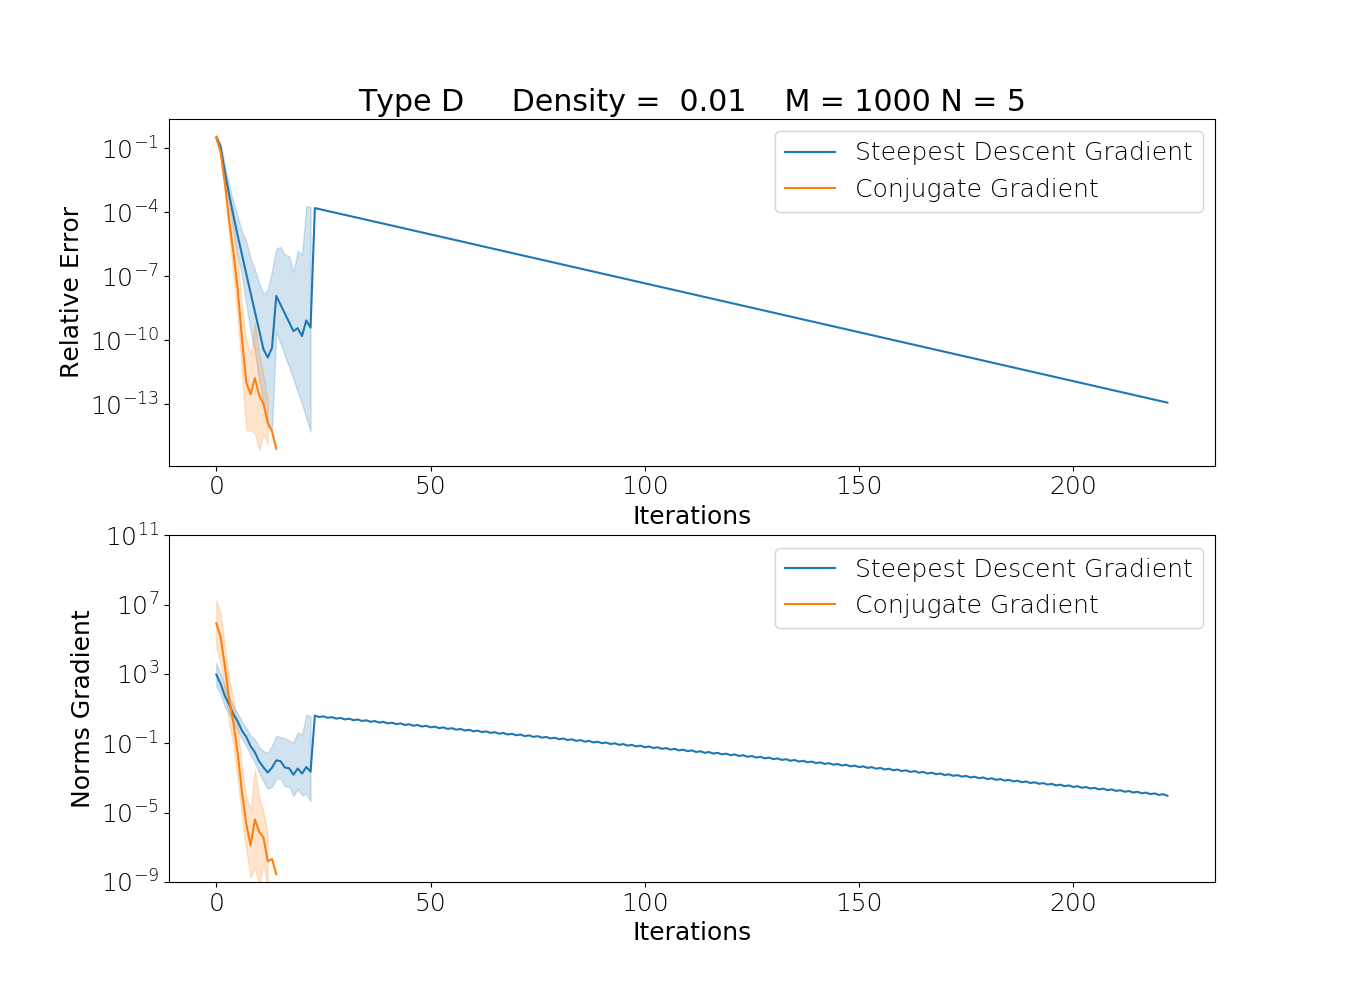
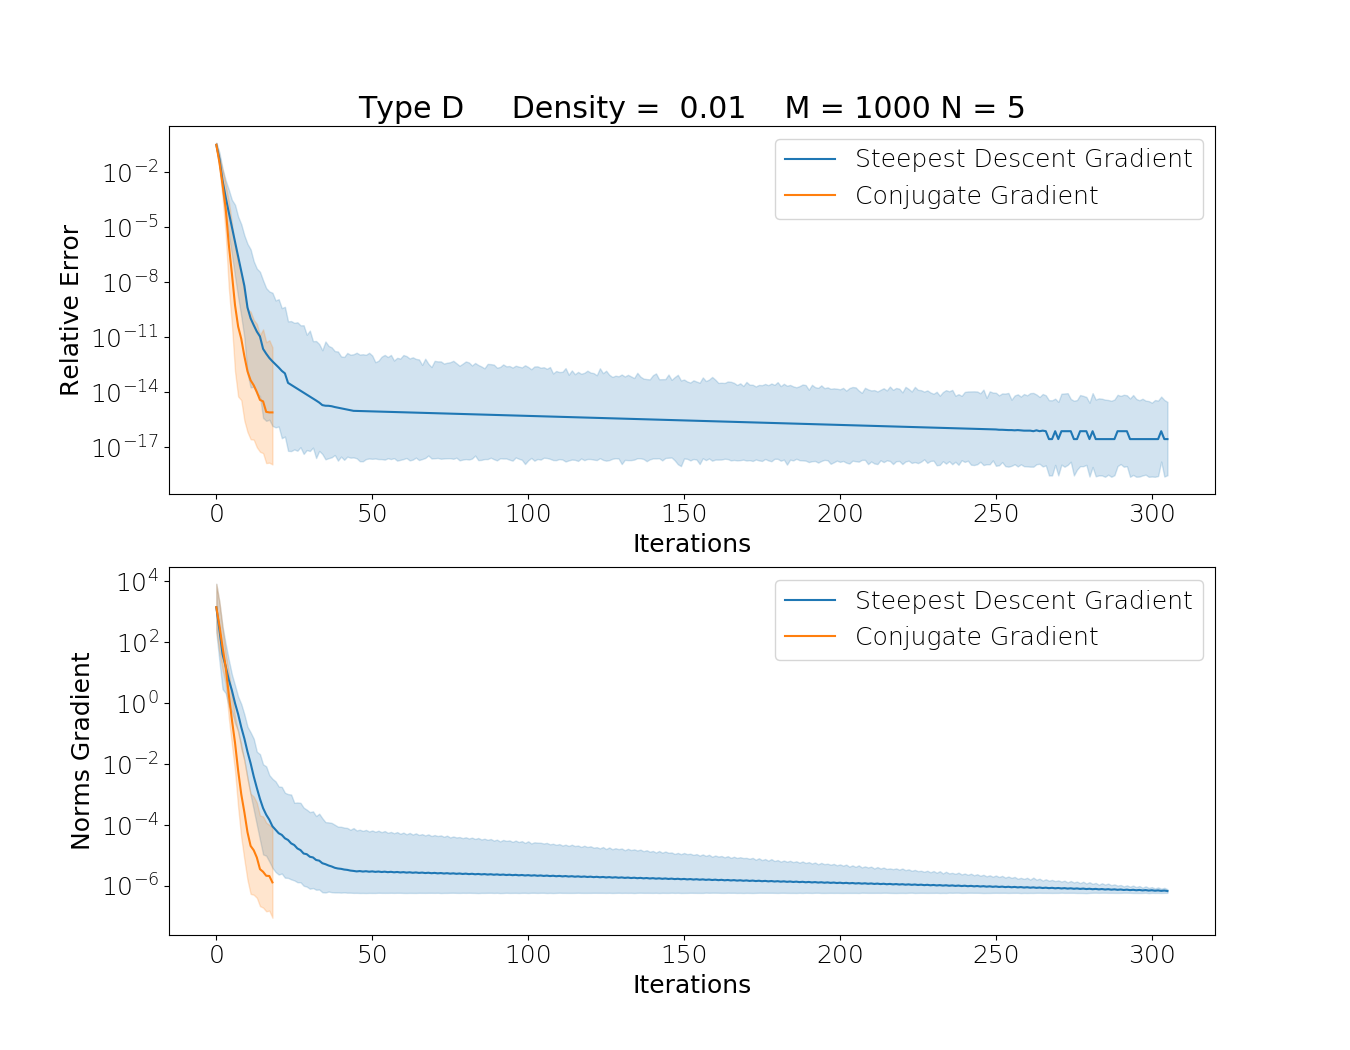
Added last plots

diff --git a/pythonsrc/utility.py b/pythonsrc/utility.py
@@ -164,7 +164,7 @@ def printPlot2(relerrorsSGD=None, gradientsSGD=None, relerrorsCG=None, gradients
     relErrPlot.legend(('Steepest Descent Gradient', 'Conjugate Gradient'), loc='upper right')
     gradPlot.legend(('Steepest Descent Gradient', 'Conjugate Gradient'), loc='upper right')
 
-    plt.show()
+    #plt.show()
     savePlot(type, num, fig)
 
 

diff --git a/pythonsrc/conf.py b/pythonsrc/conf.py
@@ -5,7 +5,7 @@
 # minimun step size
 mina = 1e-16
 # Norm of the gradient. If negative it's relative
-eps = 1e-3
+eps = 1e-6
 # Max number of iteration
 MaxFeval = 500
 # -inf value
